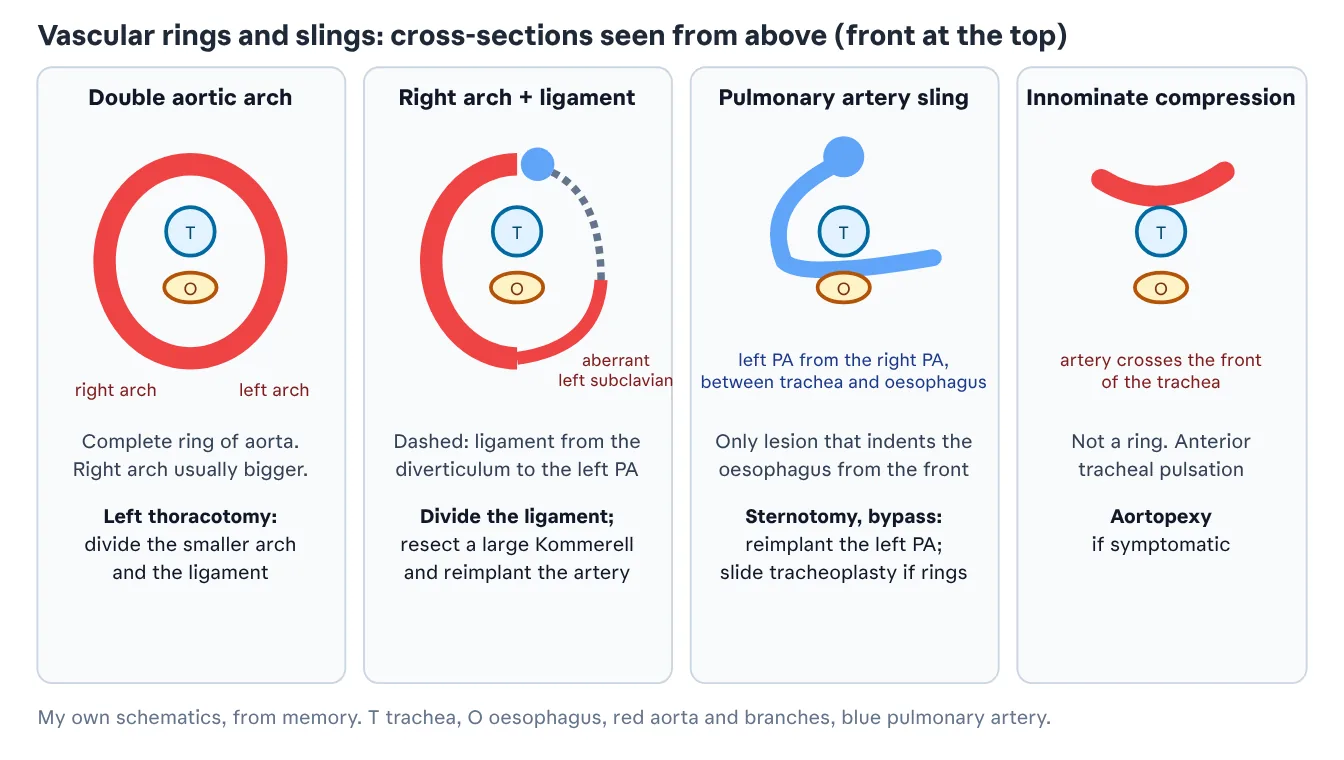
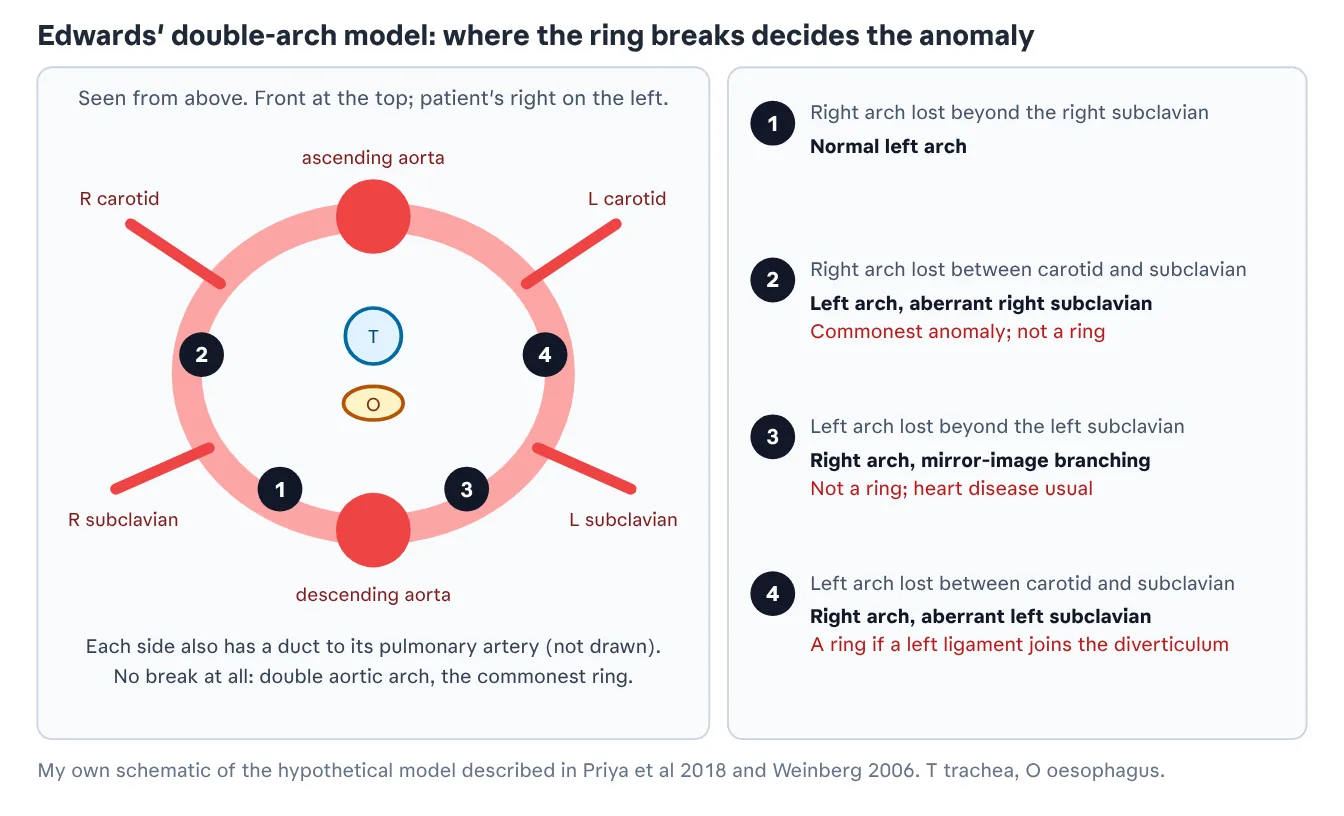
Congenital 6: arch anomalies from Weinberg 2006 and Priya 2018, Edwards model drawing
Claude-Session: https://claude.ai/code/session_01Rh3NCGU1qAttPZ8CRZtk9w

Changed region(s): [[0.0312, 0.0303, 0.9688, 0.9079], [0.1562, 0.9382, 0.875, 0.9684], [0.1875, 0.4842, 0.2188, 0.5145]]

diff --git a/st4/index.html b/st4/index.html
@@ -24197,6 +24197,177 @@ mark{background:var(--hit);color:inherit;border-radius:2px}
 
 </table></div>
 <p>Related anomalies: left arch with aberrant right subclavian is the commonest arch anomaly (under 1% of people), passes behind the oesophagus and is rarely symptomatic (checked); double arch and the other rings are in the next section.</p>
+<h3 id="g6--arch-anomalies-from-the-two-papers-you-sent-added-19-novembe">Arch anomalies from the two papers you sent (added 19 November 2026)</h3>
+<p>Read from the PDFs: Weinberg PM. Aortic arch anomalies. J Cardiovasc Magn Reson 2006;8:633-643 (main text read; the closing section on persistent fifth arch was cut off in my extract). Priya S et al. Congenital anomalies of the aortic arch. Cardiovasc Diagn Ther 2018;8(Suppl 1):S26-S44 (I read its fact-bearing sentences, not every paragraph). Rows are from these; W or P marks which.</p>
+<figure><img loading="lazy" src="img/g6-6.webp" width="1344" height="816" alt="Edwards&#39; hypothetical double arch: the site of regression determines the arch anomaly (my own schematic)"><figcaption>Edwards' hypothetical double arch: the site of regression determines the arch anomaly (my own schematic)</figcaption></figure>
+<div class="tw"><table>
+
+
+<tr>
+<th>Rule or definition</th>
+<th>Detail</th>
+</tr>
+
+
+<tr>
+<td>Arch</td>
+<td>Any vessel, patent or atretic, joining ascending and descending aorta (W)</td>
+</tr>
+<tr>
+<td>Sidedness</td>
+<td>The side of the trachea the arch passes as it crosses a main bronchus. An ascending aorta that swings far right but then crosses the left bronchus is still a left arch (W)</td>
+</tr>
+<tr>
+<td>Branching rule</td>
+<td>The first arch vessel goes to the side opposite the arch. Exceptions: a retro-oesophageal innominate arising last; both carotids arising together; and a double arch mistaken for a single one (W)</td>
+</tr>
+<tr>
+<td>A rule without exceptions</td>
+<td>A retro-oesophageal or isolated subclavian artery is always on the side opposite the arch (W)</td>
+</tr>
+<tr>
+<td>Descending aorta</td>
+<td>With normal visceral arrangement it is left of the spine at the diaphragm whichever side the arch is on, so a right arch crosses gradually; an abrupt retro-oesophageal crossing is a circumflex arch and always a ring (W)</td>
+</tr>
+<tr>
+<td>Vascular ring</td>
+<td>Trachea and oesophagus completely surrounded by vessels or their atretic remnants (arch, branches, pulmonary artery, duct or ligament). Respiratory symptoms under 2 years; dysphagia in older children and adults (W)</td>
+</tr>
+<tr>
+<td>The three Ds</td>
+<td>When no patent vessel completes the circle, a ring is still certain if there is, on the side opposite the arch: a ductal Dimple, a Diverticulum, or the proximal Descending aorta (W)</td>
+</tr>
+<tr>
+<td>Edwards model</td>
+<td>A hypothetical double arch with a duct on each side and one dorsal aorta; each anomaly is a break at a different point (P)</td>
+</tr>
+<tr>
+<td>How common</td>
+<td>Arch malformations in 1 to 2% of people (P)</td>
+</tr>
+
+</table></div>
+<div class="tw"><table>
+
+
+<tr>
+<th>Anomaly</th>
+<th>Branch order</th>
+<th>Ring?</th>
+<th>Notes</th>
+</tr>
+
+
+<tr>
+<td>Normal left arch</td>
+<td>Right innominate, left carotid, left subclavian</td>
+<td>No</td>
+<td>Left vertebral direct from the arch in about 10% (W) or 2.4 to 5.8% at autopsy (P). Common origin of innominate and left carotid ("bovine", a misnomer) in 10 to 20% (P)</td>
+</tr>
+<tr>
+<td>Left arch, retro-oesophageal right subclavian</td>
+<td>Right carotid, left carotid, left subclavian, right subclavian</td>
+<td>No</td>
+<td>The commonest arch anomaly; dysphagia lusoria is rare and mostly in adults (W). More in females; with a Kommerell diverticulum the duct is on the opposite side and can complete a ring (P)</td>
+</tr>
+<tr>
+<td>Left arch, right descending aorta (left circumflex)</td>
+<td>As above</td>
+<td>Yes, with a right ligament</td>
+<td>Rare; divided through a right thoracotomy (W)</td>
+</tr>
+<tr>
+<td>Right arch, mirror image</td>
+<td>Left innominate, right carotid, right subclavian</td>
+<td>No</td>
+<td>A left duct here arises from the base of the left innominate, and is found only with a major intracardiac defect such as a large VSD. Almost always with truncus, Fallot or tricuspid atresia, and 22q11 deletion (W, P)</td>
+</tr>
+<tr>
+<td>Right arch, retro-oesophageal left subclavian of constant calibre</td>
+<td>Left carotid, right carotid, right subclavian, left subclavian</td>
+<td>No</td>
+<td>Oesophageal indentation only (W)</td>
+</tr>
+<tr>
+<td>Right arch with Kommerell diverticulum</td>
+<td>Same</td>
+<td>Yes: left ligament from the diverticulum to the left pulmonary artery</td>
+<td>The second commonest ring. The diverticulum (abrupt change in calibre) is the remnant of fetal ductal flow and proves the ligament is there (W)</td>
+</tr>
+<tr>
+<td>Right arch, left descending aorta (right circumflex)</td>
+<td>Mirror image or aberrant left subclavian</td>
+<td>Yes</td>
+<td>Third commonest ring; commoner than the left circumflex form (W, P)</td>
+</tr>
+<tr>
+<td>Right arch with retro-oesophageal left ligament from the descending aorta</td>
+<td>Mirror image</td>
+<td>Yes</td>
+<td>Rare; shown only by a ductal dimple (W)</td>
+</tr>
+<tr>
+<td>Double arch</td>
+<td>Carotid and subclavian from each arch</td>
+<td>Yes</td>
+<td>The commonest ring. Right arch dominant and higher in most; both patent in most; an atretic left segment may lie between carotid and subclavian or beyond the subclavian and can be indistinguishable from right arch with Kommerell: warn the surgeon (W, P)</td>
+</tr>
+<tr>
+<td>Cervical arch</td>
+<td>Arch at or above the clavicle</td>
+<td>Sometimes</td>
+<td>Usually with a right arch; usually no intracardiac defect; may go with 22q11 deletion (P)</td>
+</tr>
+<tr>
+<td>Interrupted arch</td>
+<td></td>
+<td></td>
+<td>Type B commonest in infants and with 22q11 deletion; type A in adults (P)</td>
+</tr>
+<tr>
+<td>Arch hypoplasia</td>
+<td></td>
+<td></td>
+<td>External diameter under 60% of the ascending aorta for the proximal arch, under 50% for the distal arch, under 40% for the isthmus (P)</td>
+</tr>
+
+</table></div>
+<div class="tw"><table>
+
+
+<tr>
+<th>For the surgeon</th>
+<th>Detail</th>
+</tr>
+
+
+<tr>
+<td>Which side to open</td>
+<td>Nearly all rings are divided through the left chest. The two exceptions needing a right thoracotomy are a double arch with a dominant left arch and a left arch with right descending aorta (W)</td>
+</tr>
+<tr>
+<td>Which arch to divide</td>
+<td>The smaller; if they look equal, MR flow measurement shows which carries less (W)</td>
+</tr>
+<tr>
+<td>The ligament</td>
+<td>Must be divided with the arch, or it can still complete a ring (W)</td>
+</tr>
+<tr>
+<td>Why cross-sectional imaging</td>
+<td>Barium and echo get sidedness wrong often enough to cause bilateral thoracotomies, and cannot show where an atretic segment lies (W)</td>
+</tr>
+<tr>
+<td>Kommerell diverticulum</td>
+<td>Resect if aneurysmal (P)</td>
+</tr>
+<tr>
+<td>Non-ring compression</td>
+<td>Innominate artery compression, pulmonary artery sling, and a bronchus squeezed between ascending and descending aorta when the arch lies sagittally (W)</td>
+</tr>
+
+</table></div>
+<p>Where the sources differ: StatPearls gives mirror-image branching as the commonest right arch (59%), while Priya calls the aberrant left subclavian type the commonest; the answer depends on whether the series is of patients with heart disease or of the general population.</p>
 <h2 id="g6--vascular-rings-and-slings">Vascular rings and slings</h2>
 <div class="tw"><table>
 
@@ -24242,7 +24413,7 @@ mark{background:var(--hit);color:inherit;border-radius:2px}
 
 </table></div>
 <p>Presentation: stridor, noisy breathing, recurrent infections, feeding difficulty. Barium swallow shows a posterior indentation for rings and an anterior oesophageal indentation only in the sling. CT or MRI defines it; bronchoscopy for tracheal rings and malacia.</p>
-<figure><img loading="lazy" src="img/g6-6.webp" width="1344" height="760" alt="Vascular rings and slings in cross-section (my own schematics)"><figcaption>Vascular rings and slings in cross-section (my own schematics)</figcaption></figure>
+<figure><img loading="lazy" src="img/g6-7.webp" width="1344" height="760" alt="Vascular rings and slings in cross-section (my own schematics)"><figcaption>Vascular rings and slings in cross-section (my own schematics)</figcaption></figure>
 <h2 id="g6--cardiac-tumours-in-children">Cardiac tumours in children</h2>
 <ul>
 <li><p>Rhabdomyoma: the commonest; multiple, ventricular; tuberous sclerosis; regresses, so operate only for obstruction or arrhythmia.</p></li>

diff --git a/st4/sw.js b/st4/sw.js
@@ -1,5 +1,5 @@
-const CACHE='st4-ee10afac9e';
-const ASSETS=["./", "index.html", "manifest.webmanifest", "apple-touch-icon.png", "icon-192.png", "icon-512.png", "img/t1-1.webp", "img/t1-2.webp", "img/t1-3.webp", "img/t1-4.webp", "img/t1-5.webp", "img/t1-6.webp", "img/t2-1.webp", "img/t2-2.webp", "img/t2-3.webp", "img/t2-4.webp", "img/t2-5.webp", "img/t2-6.webp", "img/t3-1.webp", "img/t3-2.webp", "img/t4-1.webp", "img/t4-2.webp", "img/t4-3.webp", "img/t4-4.webp", "img/t4-5.webp", "img/t4-6.webp", "img/t5-1.webp", "img/t5-2.webp", "img/t5-3.webp", "img/t5-4.webp", "img/t6-1.webp", "img/t6-2.webp", "img/t7-1.webp", "img/t7-2.webp", "img/t7-3.webp", "img/t7-4.webp", "img/t7-5.webp", "img/t7-6.webp", "img/t9-1.webp", "img/t9-2.webp", "img/t9-3.webp", "img/t9-4.webp", "img/t9-5.webp", "img/t9-6.webp", "img/t9-7.webp", "img/t9-8.webp", "img/t9-9.webp", "img/t9-10.webp", "img/t9-11.webp", "img/t9-12.webp", "img/t9-13.webp", "img/t9-14.webp", "img/t9-15.webp", "img/t9-16.webp", "img/t9-17.webp", "img/t9-18.webp", "img/cardiac-1.webp", "img/cardiac-2.webp", "img/cardiac-3.webp", "img/cardiac-4.webp", "img/cardiac-5.webp", "img/c1-1.webp", "img/c1-2.webp", "img/c1-3.webp", "img/c1-4.webp", "img/c1-5.webp", "img/c1-6.webp", "img/c1-7.webp", "img/c1-8.webp", "img/c1-9.webp", "img/c1-10.webp", "img/c1-11.webp", "img/c1-12.webp", "img/c1-13.webp", "img/c1-14.webp", "img/c1-15.webp", "img/c1-16.webp", "img/c1-17.webp", "img/c1-18.webp", "img/c1-19.webp", "img/c1-20.webp", "img/c1-21.webp", "img/c1-22.webp", "img/c2-1.webp", "img/c2-2.webp", "img/c2-3.webp", "img/c2-4.webp", "img/c2-5.webp", "img/c2-6.webp", "img/c2-7.webp", "img/c2-8.webp", "img/c2-9.webp", "img/c2-10.webp", "img/c2-11.webp", "img/c2-12.webp", "img/c2-13.webp", "img/c2-14.webp", "img/c2-15.webp", "img/c2-16.webp", "img/c4-1.webp", "img/c4-2.webp", "img/c4-3.webp", "img/c4-4.webp", "img/c4-5.webp", "img/c4-6.webp", "img/c4-7.webp", "img/c5-1.webp", "img/c6-1.webp", "img/c6-2.webp", "img/c6-3.webp", "img/c7-1.webp", "img/c7-2.webp", "img/c7-3.webp", "img/c7-4.webp", "img/c7-5.webp", "img/c7-6.webp", "img/c7-7.webp", "img/c8-1.webp", "img/c8-2.webp", "img/c8-3.webp", "img/c8-4.webp", "img/c8-5.webp", "img/c8-6.webp", "img/c8-7.webp", "img/c8-8.webp", "img/c8-9.webp", "img/c8-10.webp", "img/c8-11.webp", "img/c8-12.webp", "img/c8-13.webp", "img/c8-14.webp", "img/c8-15.webp", "img/c8-16.webp", "img/c8-17.webp", "img/c8-18.webp", "img/c8-19.webp", "img/c8-20.webp", "img/c8-21.webp", "img/c8-22.webp", "img/c9-1.webp", "img/c9-2.webp", "img/c9-3.webp", "img/c9-4.webp", "img/c9-5.webp", "img/c9-6.webp", "img/c9-7.webp", "img/c9-8.webp", "img/c9-9.webp", "img/c9-10.webp", "img/c9-11.webp", "img/c9-12.webp", "img/c9-13.webp", "img/c9-14.webp", "img/c9-15.webp", "img/c9-16.webp", "img/c9-17.webp", "img/c9-18.webp", "img/c9-19.webp", "img/c9-20.webp", "img/c9-21.webp", "img/c9-22.webp", "img/c9-23.webp", "img/c9-24.webp", "img/c9-25.webp", "img/c10-1.webp", "img/c10-2.webp", "img/c10-3.webp", "img/c10-4.webp", "img/g2-1.webp", "img/g2-2.webp", "img/g2-3.webp", "img/g3-1.webp", "img/g5-1.webp", "img/g5-2.webp", "img/g5-3.webp", "img/g5-4.webp", "img/g5-5.webp", "img/g5-6.webp", "img/g5-7.webp", "img/g5-8.webp", "img/g5-9.webp", "img/g5-10.webp", "img/g5-11.webp", "img/g5-12.webp", "img/g5-13.webp", "img/g5-14.webp", "img/g6-1.webp", "img/g6-2.webp", "img/g6-3.webp", "img/g6-4.webp", "img/g6-5.webp", "img/g6-6.webp", "img/fb-3.webp"];
+const CACHE='st4-ade9eca525';
+const ASSETS=["./", "index.html", "manifest.webmanifest", "apple-touch-icon.png", "icon-192.png", "icon-512.png", "img/t1-1.webp", "img/t1-2.webp", "img/t1-3.webp", "img/t1-4.webp", "img/t1-5.webp", "img/t1-6.webp", "img/t2-1.webp", "img/t2-2.webp", "img/t2-3.webp", "img/t2-4.webp", "img/t2-5.webp", "img/t2-6.webp", "img/t3-1.webp", "img/t3-2.webp", "img/t4-1.webp", "img/t4-2.webp", "img/t4-3.webp", "img/t4-4.webp", "img/t4-5.webp", "img/t4-6.webp", "img/t5-1.webp", "img/t5-2.webp", "img/t5-3.webp", "img/t5-4.webp", "img/t6-1.webp", "img/t6-2.webp", "img/t7-1.webp", "img/t7-2.webp", "img/t7-3.webp", "img/t7-4.webp", "img/t7-5.webp", "img/t7-6.webp", "img/t9-1.webp", "img/t9-2.webp", "img/t9-3.webp", "img/t9-4.webp", "img/t9-5.webp", "img/t9-6.webp", "img/t9-7.webp", "img/t9-8.webp", "img/t9-9.webp", "img/t9-10.webp", "img/t9-11.webp", "img/t9-12.webp", "img/t9-13.webp", "img/t9-14.webp", "img/t9-15.webp", "img/t9-16.webp", "img/t9-17.webp", "img/t9-18.webp", "img/cardiac-1.webp", "img/cardiac-2.webp", "img/cardiac-3.webp", "img/cardiac-4.webp", "img/cardiac-5.webp", "img/c1-1.webp", "img/c1-2.webp", "img/c1-3.webp", "img/c1-4.webp", "img/c1-5.webp", "img/c1-6.webp", "img/c1-7.webp", "img/c1-8.webp", "img/c1-9.webp", "img/c1-10.webp", "img/c1-11.webp", "img/c1-12.webp", "img/c1-13.webp", "img/c1-14.webp", "img/c1-15.webp", "img/c1-16.webp", "img/c1-17.webp", "img/c1-18.webp", "img/c1-19.webp", "img/c1-20.webp", "img/c1-21.webp", "img/c1-22.webp", "img/c2-1.webp", "img/c2-2.webp", "img/c2-3.webp", "img/c2-4.webp", "img/c2-5.webp", "img/c2-6.webp", "img/c2-7.webp", "img/c2-8.webp", "img/c2-9.webp", "img/c2-10.webp", "img/c2-11.webp", "img/c2-12.webp", "img/c2-13.webp", "img/c2-14.webp", "img/c2-15.webp", "img/c2-16.webp", "img/c4-1.webp", "img/c4-2.webp", "img/c4-3.webp", "img/c4-4.webp", "img/c4-5.webp", "img/c4-6.webp", "img/c4-7.webp", "img/c5-1.webp", "img/c6-1.webp", "img/c6-2.webp", "img/c6-3.webp", "img/c7-1.webp", "img/c7-2.webp", "img/c7-3.webp", "img/c7-4.webp", "img/c7-5.webp", "img/c7-6.webp", "img/c7-7.webp", "img/c8-1.webp", "img/c8-2.webp", "img/c8-3.webp", "img/c8-4.webp", "img/c8-5.webp", "img/c8-6.webp", "img/c8-7.webp", "img/c8-8.webp", "img/c8-9.webp", "img/c8-10.webp", "img/c8-11.webp", "img/c8-12.webp", "img/c8-13.webp", "img/c8-14.webp", "img/c8-15.webp", "img/c8-16.webp", "img/c8-17.webp", "img/c8-18.webp", "img/c8-19.webp", "img/c8-20.webp", "img/c8-21.webp", "img/c8-22.webp", "img/c9-1.webp", "img/c9-2.webp", "img/c9-3.webp", "img/c9-4.webp", "img/c9-5.webp", "img/c9-6.webp", "img/c9-7.webp", "img/c9-8.webp", "img/c9-9.webp", "img/c9-10.webp", "img/c9-11.webp", "img/c9-12.webp", "img/c9-13.webp", "img/c9-14.webp", "img/c9-15.webp", "img/c9-16.webp", "img/c9-17.webp", "img/c9-18.webp", "img/c9-19.webp", "img/c9-20.webp", "img/c9-21.webp", "img/c9-22.webp", "img/c9-23.webp", "img/c9-24.webp", "img/c9-25.webp", "img/c10-1.webp", "img/c10-2.webp", "img/c10-3.webp", "img/c10-4.webp", "img/g2-1.webp", "img/g2-2.webp", "img/g2-3.webp", "img/g3-1.webp", "img/g5-1.webp", "img/g5-2.webp", "img/g5-3.webp", "img/g5-4.webp", "img/g5-5.webp", "img/g5-6.webp", "img/g5-7.webp", "img/g5-8.webp", "img/g5-9.webp", "img/g5-10.webp", "img/g5-11.webp", "img/g5-12.webp", "img/g5-13.webp", "img/g5-14.webp", "img/g6-1.webp", "img/g6-2.webp", "img/g6-3.webp", "img/g6-4.webp", "img/g6-5.webp", "img/g6-6.webp", "img/g6-7.webp", "img/fb-3.webp"];
 self.addEventListener('install',e=>{e.waitUntil(caches.open(CACHE).then(async c=>{await c.addAll(ASSETS.slice(0,6));await Promise.allSettled(ASSETS.slice(6).map(a=>c.add(a)));}).then(()=>self.skipWaiting()));});
 self.addEventListener('activate',e=>{e.waitUntil(caches.keys().then(ks=>Promise.all(ks.filter(k=>k.startsWith('st4-')&&k!==CACHE).map(k=>caches.delete(k)))).then(()=>self.clients.claim()));});
 self.addEventListener('fetch',e=>{
